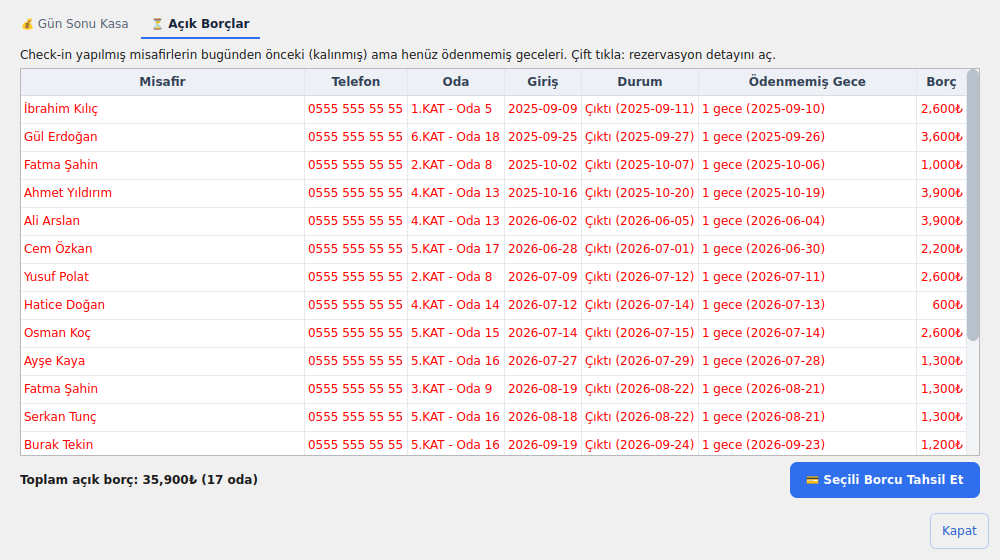
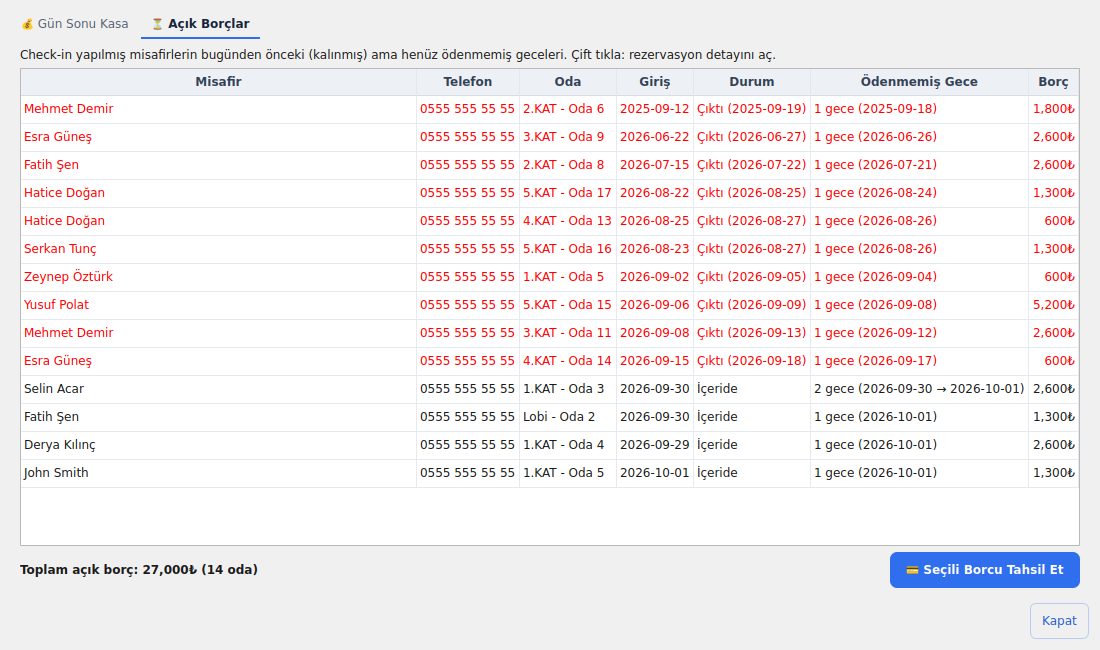
1.0.6: README ekran görüntüleri sol menülü düzene göre yenilendi
- 9 görüntü yeniden alındı, Misafirler, Konaklayan Listesi ve dar menü eklendi
- telefonlar 0555 555 55 55, TC'ler 11111111111; kullanıcı adı görünmez

Claude-Session: https://claude.ai/code/session_01VCmCbexZTvosPNmCpPNBt9

diff --git a/README.md b/README.md
@@ -8,7 +8,7 @@ Küçük işletmeler ve misafirhaneler için **internetsiz çalışan** masaüst
 
 > Görüntüler örnek (uydurma) test verisiyle alınmıştır; gerçek misafir bilgisi içermez.
 
-| Oda Durumu | Yeni Rezervasyon (tekrar gelen misafir) |
+| Oda Durumu (sol menü) | Yeni Rezervasyon (tekrar gelen misafir) |
 |---|---|
 | ![Oda Durumu](docs/ekran/oda_durumu.png) | ![Yeni Rezervasyon](docs/ekran/tekrar_gelen_misafir.png) |
 | **Rezervasyon detayı ve misafir kartı** | **Çıkış (borç gösterimi, çift tıkla tahsil + çıkış)** |
@@ -17,8 +17,11 @@ Küçük işletmeler ve misafirhaneler için **internetsiz çalışan** masaüst
 | ![Gün sonu kasa](docs/ekran/kasa.png) | ![Açık borçlar](docs/ekran/acik_borclar.png) |
 | **İstatistik** | **Rezervasyon Yönetimi** |
 | ![İstatistik](docs/ekran/istatistik.png) | ![Rezervasyon Yönetimi](docs/ekran/rezervasyon_yonetimi.png) |
+| **Misafirler** | **Konaklayan Listesi** |
+| ![Misafirler](docs/ekran/misafirler.png) | ![Konaklayan Listesi](docs/ekran/konaklayan_listesi.png) |
+| **Sol menü daraltılmış (☰ / Ctrl+B)** | **Günün özeti** |
+| ![Sol menü daraltılmış](docs/ekran/kenar_dar.png) | ![Günün özeti](docs/ekran/gunun_ozeti.png) |
 
-<p align="center"><img src="docs/ekran/gunun_ozeti.png" alt="Günün özeti" width="460"><br><em>Açılışta gösterilen günün özeti</em></p>
 
 ## Ne yapar?
 
